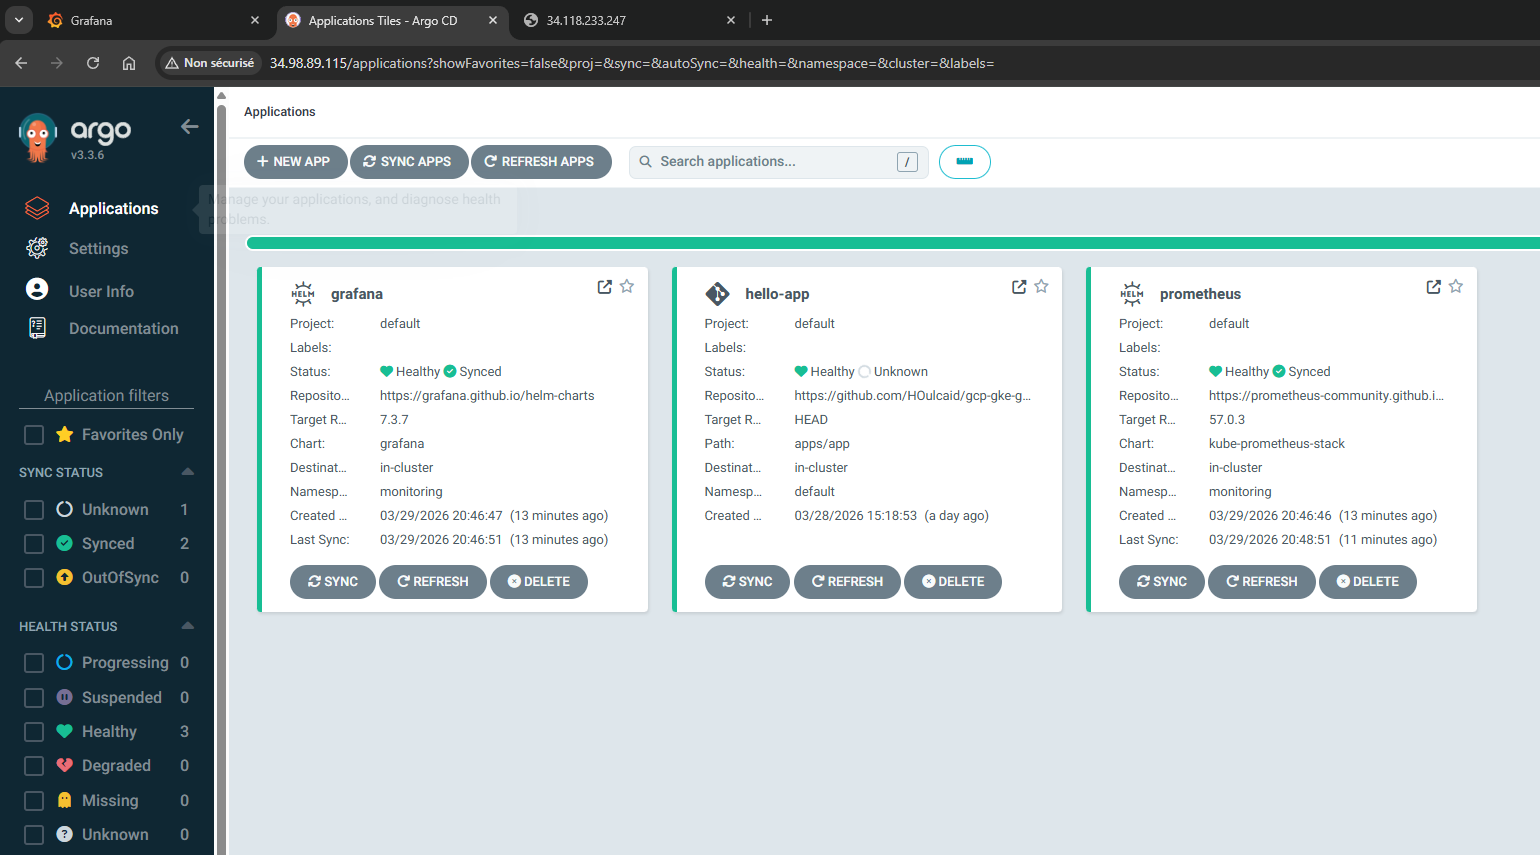
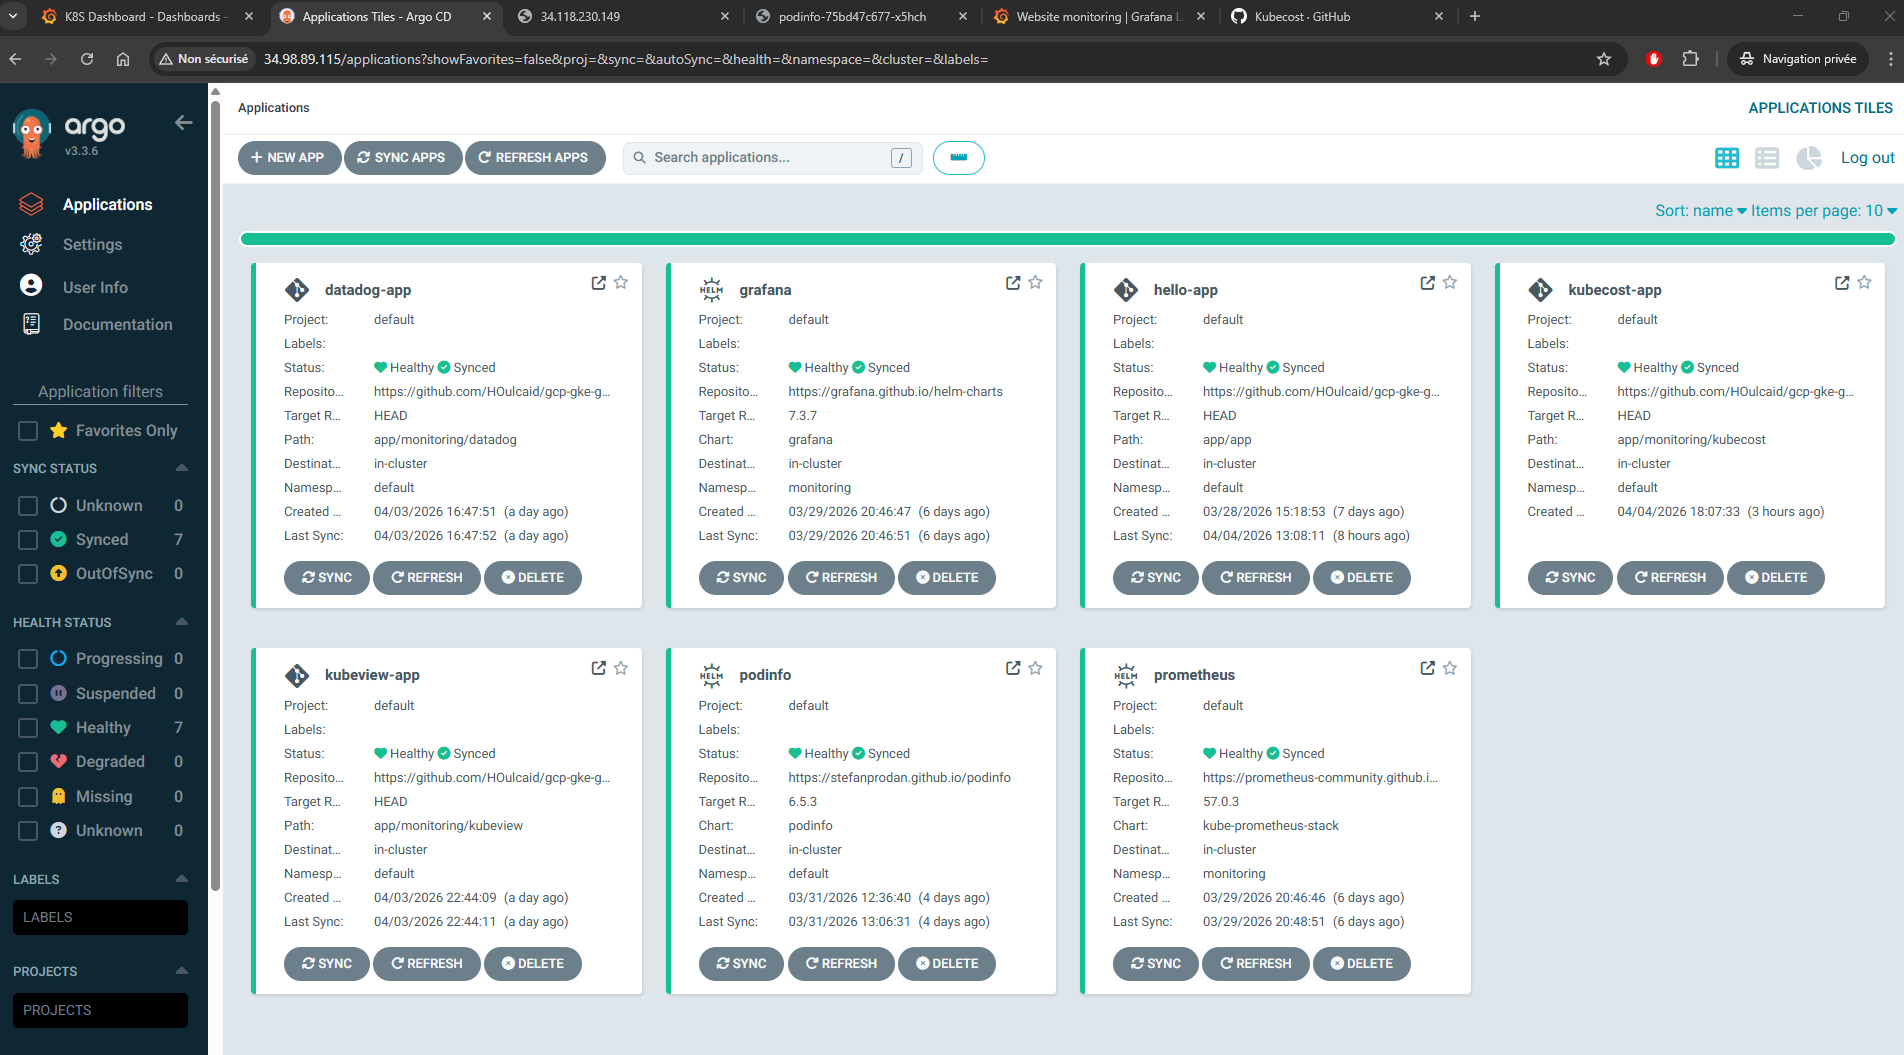
Added media

diff --git a/README.md b/README.md
@@ -167,6 +167,8 @@ kubectl get svc -n monitoring | grep grafana
 ### Grafana Dashboard
 ![Grafana Dashboard](media/grafana-dashboard.png)
 
+### Kubeview Dashboard
+![Kubeview Dashboard](media/kubeview-ui.png)
 ---
 
 ## GitOps Workflow
